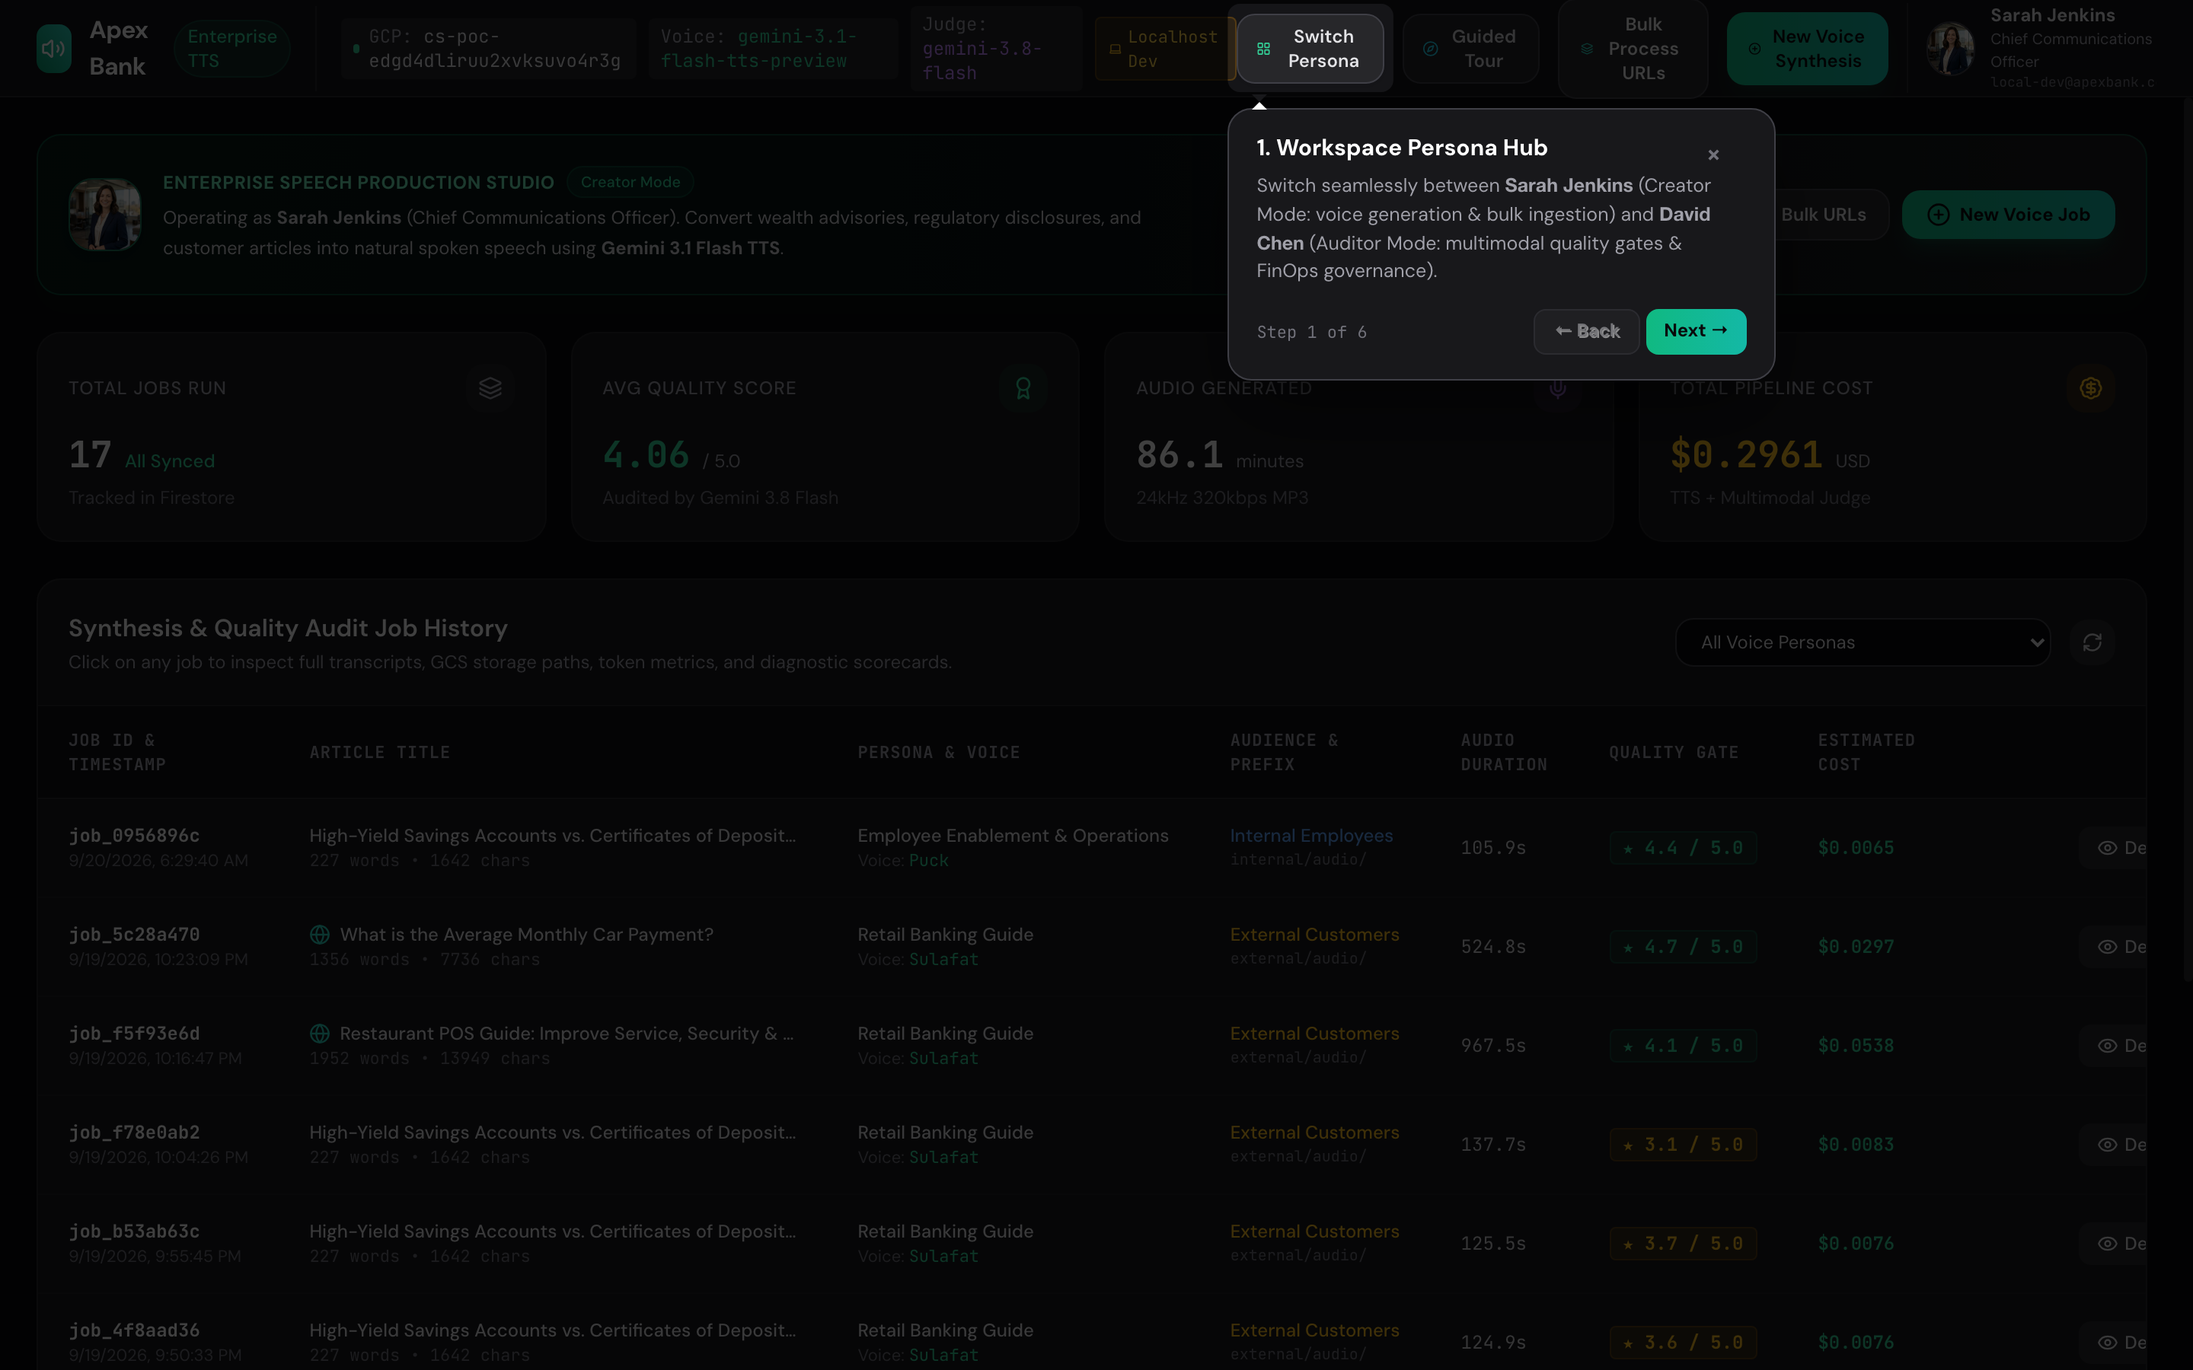
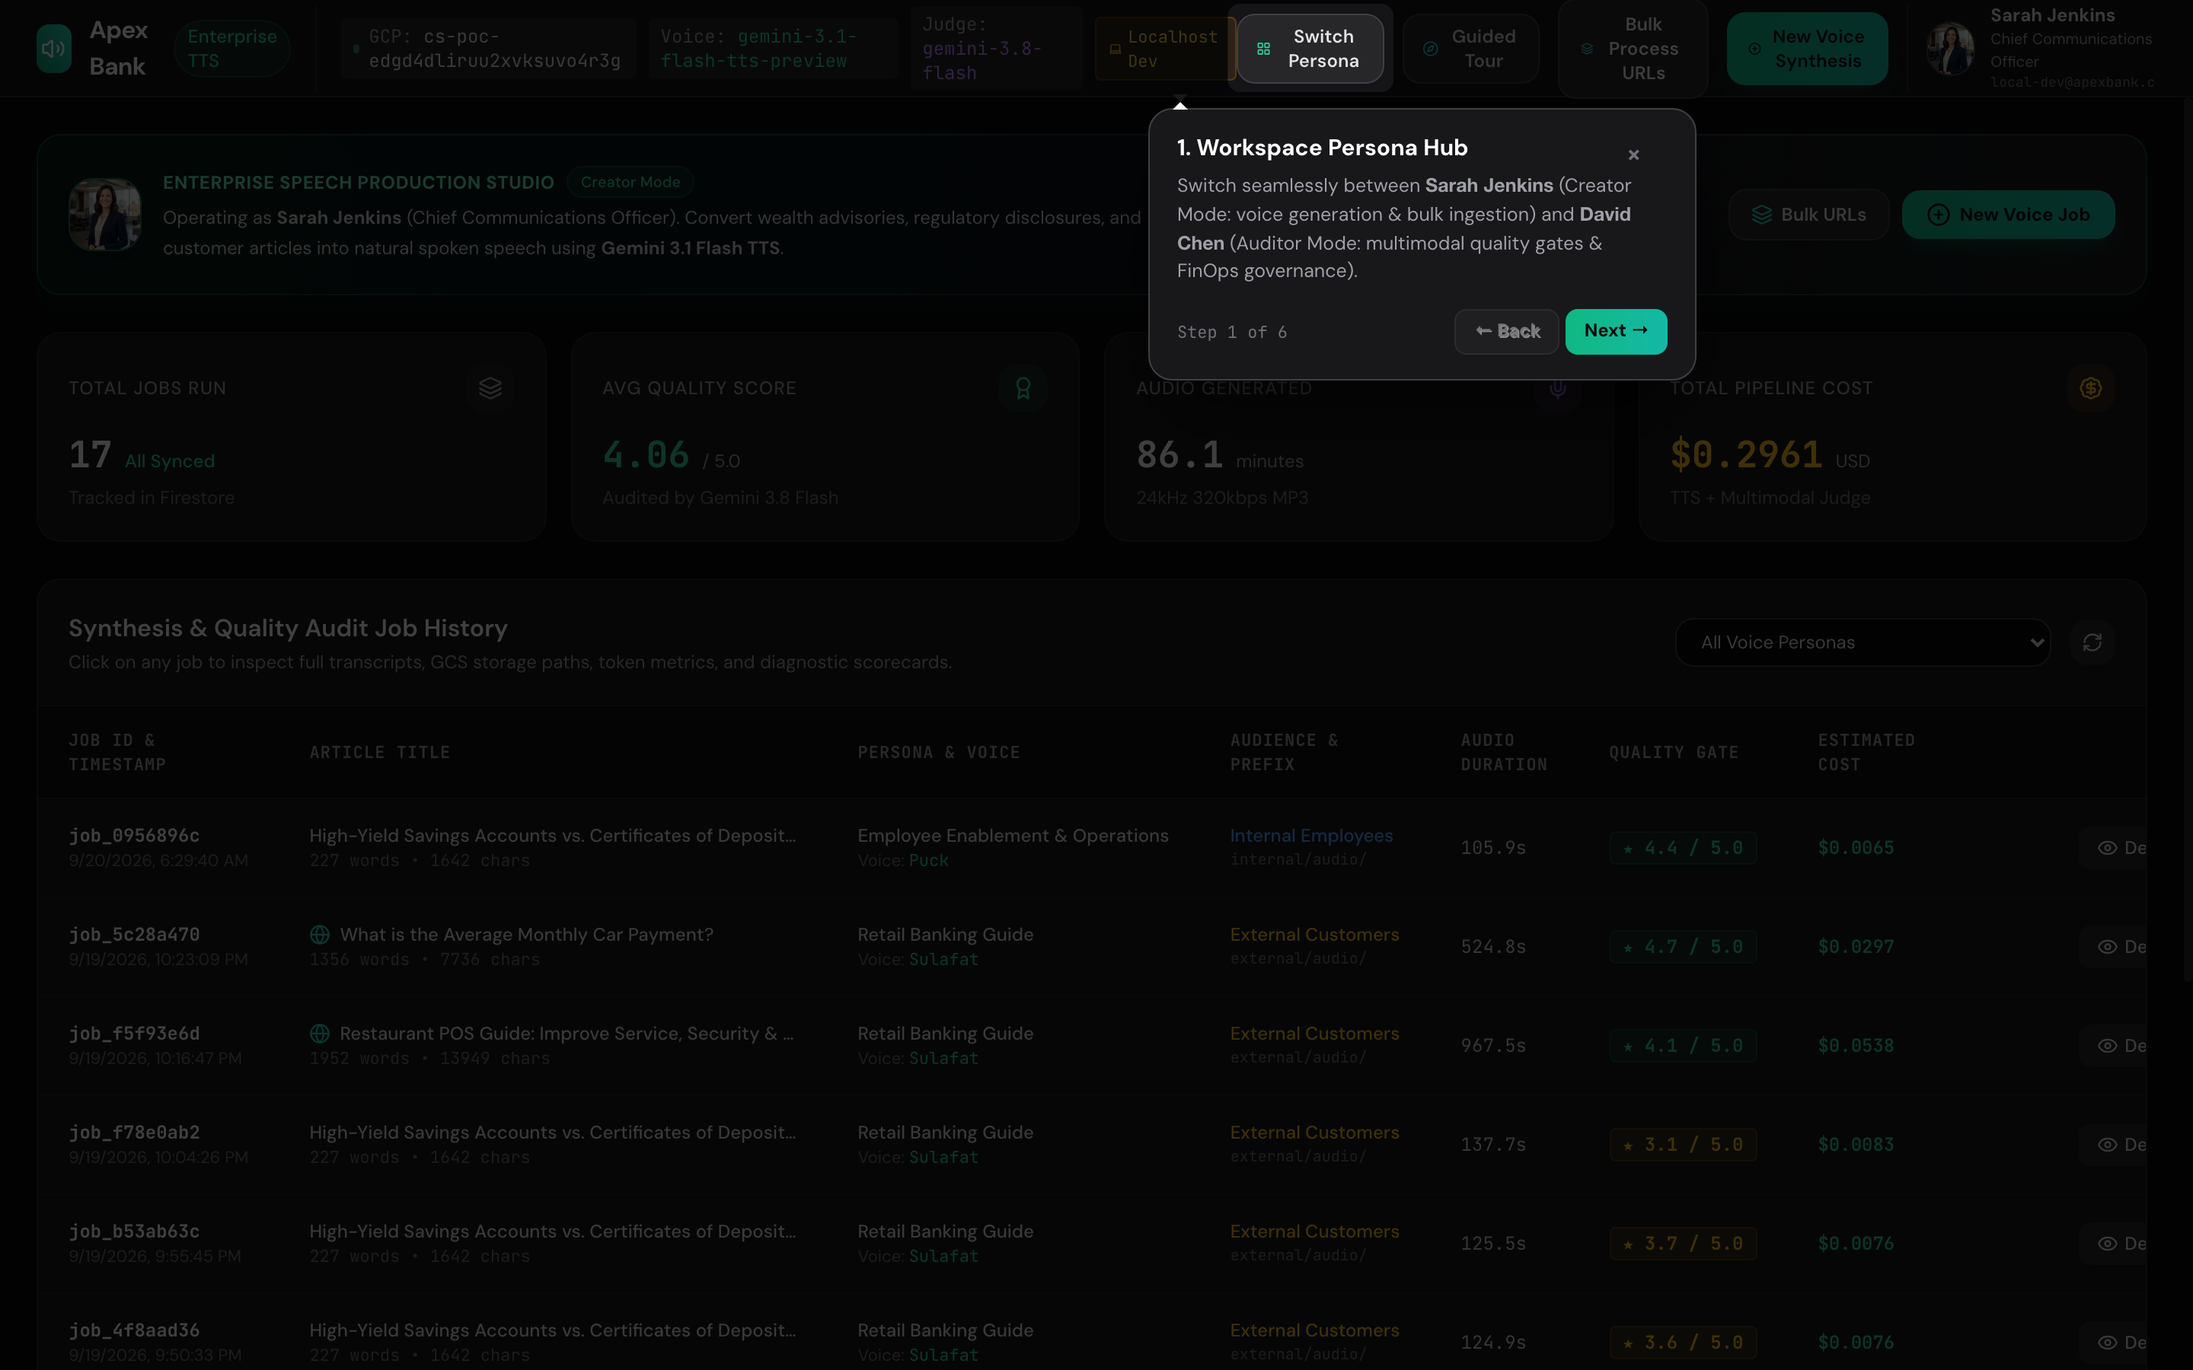
fix(onboarding): bind tour tracking strictly to authenticated Google identity instead of workspace persona

Changed region(s): [[0.5312, 0.0933, 0.7812, 0.2489], [0.6875, 0.2178, 0.8125, 0.28]]

diff --git a/tests/test_ui.py b/tests/test_ui.py
@@ -599,13 +599,13 @@ def test_job_creation_and_modal_progress_resilience(client):
 
 
 def test_user_tour_endpoints_lifecycle(client):
-    """Verify tour status check, dismissal, and reset lifecycle via API."""
+    """Verify tour status check, dismissal, and reset lifecycle via API keyed by Google identity."""
     # 1. Unauthenticated requests must fail with 401
     assert client.get("/api/user/tour-status").status_code == 401
     assert client.post("/api/user/tour-dismiss").status_code == 401
     assert client.post("/api/user/tour-reset").status_code == 401
 
-    # 2. Login as Sarah Jenkins
+    # 2. Authenticate session
     login_resp = client.post("/api/auth/login", json={"email": "admin@apexbank.com", "password": "demo1234"})
     assert login_resp.status_code == 200
     token = login_resp.json()["token"]
@@ -615,17 +615,21 @@ def test_user_tour_endpoints_lifecycle(client):
     reset_resp = client.post("/api/user/tour-reset", headers=headers)
     assert reset_resp.status_code == 200
     assert reset_resp.json()["has_seen_tour"] is False
+    assert reset_resp.json()["tracked_by"] == "google_identity"
 
     # 4. Check tour status returns false
     status_resp1 = client.get("/api/user/tour-status", headers=headers)
     assert status_resp1.status_code == 200
     assert status_resp1.json()["has_seen_tour"] is False
-    assert status_resp1.json()["user_email"] == "admin@apexbank.com"
+    assert status_resp1.json()["google_email"] == "admin@apexbank.com"
+    assert status_resp1.json()["tracked_by"] == "google_identity"
 
     # 5. Dismiss tour
     dismiss_resp = client.post("/api/user/tour-dismiss", headers=headers)
     assert dismiss_resp.status_code == 200
     assert dismiss_resp.json()["has_seen_tour"] is True
+    assert dismiss_resp.json()["google_email"] == "admin@apexbank.com"
+    assert dismiss_resp.json()["tracked_by"] == "google_identity"
 
     # 6. Check tour status now returns true
     status_resp2 = client.get("/api/user/tour-status", headers=headers)
@@ -640,6 +644,53 @@ def test_user_tour_endpoints_lifecycle(client):
     status_resp3 = client.get("/api/user/tour-status", headers=headers)
     assert status_resp3.status_code == 200
     assert status_resp3.json()["has_seen_tour"] is False
+
+
+def test_tour_tracking_bound_to_google_identity_across_personas(client):
+    """Verify tour dismissal is bound strictly to Google account identity and persists across persona switching."""
+    # 1. Establish Google authenticated session
+    google_email = "alex.morgan@apexbank.com"
+    session_resp = client.post("/api/auth/google-session", json={"email": google_email})
+    assert session_resp.status_code == 200
+    token = session_resp.json()["token"]
+
+    creator_headers = {"Authorization": f"Bearer {token}", "X-Apex-Persona": "creator"}
+    auditor_headers = {"Authorization": f"Bearer {token}", "X-Apex-Persona": "auditor"}
+
+    # 2. Reset tour for clean test baseline
+    client.post("/api/user/tour-reset", headers=creator_headers)
+
+    # 3. Check status as Creator persona: has_seen_tour is False
+    st_creator_before = client.get("/api/user/tour-status", headers=creator_headers).json()
+    assert st_creator_before["has_seen_tour"] is False
+    assert st_creator_before["google_email"] == google_email
+
+    # 4. Check status as Auditor persona: has_seen_tour is also False for the same Google user
+    st_auditor_before = client.get("/api/user/tour-status", headers=auditor_headers).json()
+    assert st_auditor_before["has_seen_tour"] is False
+    assert st_auditor_before["google_email"] == google_email
+
+    # 5. Dismiss tour while in Creator persona
+    dismiss_resp = client.post("/api/user/tour-dismiss", headers=creator_headers).json()
+    assert dismiss_resp["has_seen_tour"] is True
+    assert dismiss_resp["google_email"] == google_email
+    assert dismiss_resp["tracked_by"] == "google_identity"
+
+    # 6. Switch to Auditor persona and query tour status:
+    # MUST be True because the Google account Alex Morgan has already dismissed the tour!
+    st_auditor_after = client.get("/api/user/tour-status", headers=auditor_headers).json()
+    assert st_auditor_after["has_seen_tour"] is True
+    assert st_auditor_after["google_email"] == google_email
+    assert st_auditor_after["tracked_by"] == "google_identity"
+
+    # 7. Verify a different Google identity remains unseen
+    session2_resp = client.post("/api/auth/google-session", json={"email": "rachel.lee@apexbank.com"})
+    token2 = session2_resp.json()["token"]
+    headers2 = {"Authorization": f"Bearer {token2}", "X-Apex-Persona": "creator"}
+
+    st_user2 = client.get("/api/user/tour-status", headers=headers2).json()
+    assert st_user2["has_seen_tour"] is False
+    assert st_user2["google_email"] == "rachel.lee@apexbank.com"
 
 
 def test_html_guided_tour_assets_and_elements(client):

diff --git a/src/ui/app.py b/src/ui/app.py
@@ -406,6 +406,7 @@ def login(req: LoginRequest):
     token = secrets.token_hex(24)
     user_info = {
         "email": req.email.lower().strip(),
+        "google_email": req.email.lower().strip(),
         "name": user["name"],
         "role": user["role"],
         "department": user["department"],
@@ -425,43 +426,66 @@ def get_me(user: Dict[str, Any] = Depends(get_current_user)):
     return {"user": user}
 
 
+def _extract_google_identity(user: Dict[str, Any]) -> str:
+    """Extracts the authenticated Google identity email, distinct from any persona identity."""
+    email = (
+        user.get("google_email")
+        or user.get("email")
+        or user.get("uid")
+        or ""
+    ).lower().strip()
+    return email
+
+
 @app.get("/api/user/tour-status")
 def get_user_tour_status_endpoint(user: Dict[str, Any] = Depends(get_current_user)):
-    """Returns whether the authenticated user has already completed or dismissed the onboarding tour."""
+    """Returns whether the authenticated Google user identity has already completed or dismissed the onboarding tour.
+    Tracking is strictly keyed by Google identity, NOT by workspace persona.
+    """
     repo = get_job_repository()
-    email = user.get("email", "")
-    has_seen = repo.get_user_tour_status(email)
+    google_identity = _extract_google_identity(user)
+    has_seen = repo.get_user_tour_status(google_identity)
     return {
-        "user_email": email,
-        "has_seen_tour": has_seen
+        "google_email": google_identity,
+        "user_email": google_identity,
+        "has_seen_tour": has_seen,
+        "tracked_by": "google_identity"
     }
 
 
 @app.post("/api/user/tour-dismiss")
 def dismiss_user_tour_endpoint(user: Dict[str, Any] = Depends(get_current_user)):
-    """Records that the user has seen, completed, or dismissed the onboarding tour."""
+    """Records that the Google user identity has seen, completed, or dismissed the onboarding tour.
+    Tracking is strictly keyed by Google identity, NOT by workspace persona.
+    """
     repo = get_job_repository()
-    email = user.get("email", "")
-    repo.set_user_tour_dismissed(email, dismissed=True)
-    logger.info(f"✓ Onboarding tour marked as dismissed for user '{email}'")
+    google_identity = _extract_google_identity(user)
+    repo.set_user_tour_dismissed(google_identity, dismissed=True)
+    logger.info(f"✓ Onboarding tour marked as dismissed for Google identity '{google_identity}'")
     return {
-        "user_email": email,
+        "google_email": google_identity,
+        "user_email": google_identity,
         "has_seen_tour": True,
-        "status": "dismissed"
+        "status": "dismissed",
+        "tracked_by": "google_identity"
     }
 
 
 @app.post("/api/user/tour-reset")
 def reset_user_tour_endpoint(user: Dict[str, Any] = Depends(get_current_user)):
-    """Resets the onboarding tour status so the user can experience the auto-prompt tour again."""
+    """Resets the onboarding tour status for the Google user identity.
+    Tracking is strictly keyed by Google identity, NOT by workspace persona.
+    """
     repo = get_job_repository()
-    email = user.get("email", "")
-    repo.set_user_tour_dismissed(email, dismissed=False)
-    logger.info(f"✓ Onboarding tour reset for user '{email}'")
+    google_identity = _extract_google_identity(user)
+    repo.set_user_tour_dismissed(google_identity, dismissed=False)
+    logger.info(f"✓ Onboarding tour reset for Google identity '{google_identity}'")
     return {
-        "user_email": email,
+        "google_email": google_identity,
+        "user_email": google_identity,
         "has_seen_tour": False,
-        "status": "reset"
+        "status": "reset",
+        "tracked_by": "google_identity"
     }
 
 

diff --git a/tests/test_repository.py b/tests/test_repository.py
@@ -158,29 +158,29 @@ def test_firestore_repository_mock_operations(monkeypatch):
 
 
 def test_sqlite_user_tour_status_lifecycle(temp_repo):
-    """Verify SQLite tracking of user onboarding tour completion & dismissal."""
-    email = "sarah.jenkins@apexbank.com"
-    # 1. New user has not seen tour
-    assert temp_repo.get_user_tour_status(email) is False
+    """Verify SQLite tracking of onboarding tour keyed by authenticated Google identity, NOT persona."""
+    google_user_1 = "alex.morgan@apexbank.com"
+    # 1. New Google user has not seen tour
+    assert temp_repo.get_user_tour_status(google_user_1) is False
 
-    # 2. Mark tour as completed/dismissed
-    temp_repo.set_user_tour_dismissed(email, dismissed=True)
-    assert temp_repo.get_user_tour_status(email) is True
+    # 2. Mark tour as completed/dismissed for Google user 1
+    temp_repo.set_user_tour_dismissed(google_user_1, dismissed=True)
+    assert temp_repo.get_user_tour_status(google_user_1) is True
 
     # 3. Mark tour as reset/unseen
-    temp_repo.set_user_tour_dismissed(email, dismissed=False)
-    assert temp_repo.get_user_tour_status(email) is False
+    temp_repo.set_user_tour_dismissed(google_user_1, dismissed=False)
+    assert temp_repo.get_user_tour_status(google_user_1) is False
 
-    # 4. Independent tracking across distinct users
-    other_user = "david.chen@apexbank.com"
-    assert temp_repo.get_user_tour_status(other_user) is False
-    temp_repo.set_user_tour_dismissed(other_user, dismissed=True)
-    assert temp_repo.get_user_tour_status(other_user) is True
-    assert temp_repo.get_user_tour_status(email) is False
+    # 4. Independent tracking across distinct Google accounts (e.g. Rachel vs Alex)
+    google_user_2 = "rachel.lee@apexbank.com"
+    assert temp_repo.get_user_tour_status(google_user_2) is False
+    temp_repo.set_user_tour_dismissed(google_user_2, dismissed=True)
+    assert temp_repo.get_user_tour_status(google_user_2) is True
+    assert temp_repo.get_user_tour_status(google_user_1) is False
 
 
 def test_firestore_user_tour_status_lifecycle(monkeypatch):
-    """Verify Firestore repository tracking of user preferences document."""
+    """Verify Firestore repository tracking of Google identity preferences document."""
     from unittest.mock import MagicMock
     from src.db.repository import FirestoreJobRepository
     import sys
@@ -198,22 +198,24 @@ def test_firestore_user_tour_status_lifecycle(monkeypatch):
 
     repo = FirestoreJobRepository(project_id="test-proj", collection_name="tts_jobs", database_name="tts-jobs")
 
+    google_email = "alex.morgan@apexbank.com"
+
     # 1. Mock get when doc does not exist
     mock_snap_empty = MagicMock()
     mock_snap_empty.exists = False
     mock_doc_ref.get.return_value = mock_snap_empty
-    assert repo.get_user_tour_status("auditor@apexbank.com") is False
+    assert repo.get_user_tour_status(google_email) is False
 
     # 2. Mock set dismissal
-    repo.set_user_tour_dismissed("auditor@apexbank.com", dismissed=True)
-    mock_collection.document.assert_called_with("auditor@apexbank.com")
+    repo.set_user_tour_dismissed(google_email, dismissed=True)
+    mock_collection.document.assert_called_with(google_email)
     mock_doc_ref.set.assert_called_once()
 
     # 3. Mock get when doc exists with has_seen_tour = True
     mock_snap_seen = MagicMock()
     mock_snap_seen.exists = True
-    mock_snap_seen.to_dict.return_value = {"has_seen_tour": True}
+    mock_snap_seen.to_dict.return_value = {"has_seen_tour": True, "google_email": google_email}
     mock_doc_ref.get.return_value = mock_snap_seen
-    assert repo.get_user_tour_status("auditor@apexbank.com") is True
+    assert repo.get_user_tour_status(google_email) is True
 
 

diff --git a/src/db/repository.py b/src/db/repository.py
@@ -48,13 +48,17 @@ class BaseJobRepository(ABC):
         pass
 
     @abstractmethod
-    def get_user_tour_status(self, user_email: str) -> bool:
-        """Returns True if the user has completed or dismissed the onboarding tour, False otherwise."""
+    def get_user_tour_status(self, google_email: str) -> bool:
+        """Returns True if the authenticated Google user identity has completed or dismissed the onboarding tour, False otherwise.
+        Note: Tour tracking is strictly keyed by the user's authenticated Google Identity, NOT by workspace persona.
+        """
         pass
 
     @abstractmethod
-    def set_user_tour_dismissed(self, user_email: str, dismissed: bool = True) -> None:
-        """Persists user onboarding tour completion / dismissal state."""
+    def set_user_tour_dismissed(self, google_email: str, dismissed: bool = True) -> None:
+        """Persists onboarding tour completion / dismissal state for the authenticated Google identity.
+        Note: Tour tracking is strictly keyed by the user's authenticated Google Identity, NOT by workspace persona.
+        """
         pass
 
 
@@ -259,8 +263,8 @@ class SQLiteJobRepository(BaseJobRepository):
             source_url=source_url
         )
 
-    def get_user_tour_status(self, user_email: str) -> bool:
-        clean_email = user_email.lower().strip()
+    def get_user_tour_status(self, google_email: str) -> bool:
+        clean_email = google_email.lower().strip()
         with self._get_conn() as conn:
             row = conn.execute(
                 "SELECT has_seen_tour FROM user_preferences WHERE user_email = ?",
@@ -270,8 +274,8 @@ class SQLiteJobRepository(BaseJobRepository):
                 return bool(row["has_seen_tour"])
         return False
 
-    def set_user_tour_dismissed(self, user_email: str, dismissed: bool = True) -> None:
-        clean_email = user_email.lower().strip()
+    def set_user_tour_dismissed(self, google_email: str, dismissed: bool = True) -> None:
+        clean_email = google_email.lower().strip()
         now_iso = datetime.now(timezone.utc).isoformat() if dismissed else None
         has_seen = 1 if dismissed else 0
         with self._get_conn() as conn:
@@ -350,8 +354,8 @@ class FirestoreJobRepository(BaseJobRepository):
             "total_turns": total_turns,
         })
 
-    def get_user_tour_status(self, user_email: str) -> bool:
-        clean_email = user_email.lower().strip()
+    def get_user_tour_status(self, google_email: str) -> bool:
+        clean_email = google_email.lower().strip()
         try:
             doc_ref = self.client.collection("user_preferences").document(clean_email)
             doc = doc_ref.get()
@@ -362,12 +366,13 @@ class FirestoreJobRepository(BaseJobRepository):
             logger.warning(f"Failed to fetch user tour status from Firestore: {e}")
         return False
 
-    def set_user_tour_dismissed(self, user_email: str, dismissed: bool = True) -> None:
-        clean_email = user_email.lower().strip()
+    def set_user_tour_dismissed(self, google_email: str, dismissed: bool = True) -> None:
+        clean_email = google_email.lower().strip()
         now_iso = datetime.now(timezone.utc).isoformat() if dismissed else None
         try:
             doc_ref = self.client.collection("user_preferences").document(clean_email)
             doc_ref.set({
+                "google_email": clean_email,
                 "user_email": clean_email,
                 "has_seen_tour": dismissed,
                 "tour_dismissed_at": now_iso,
